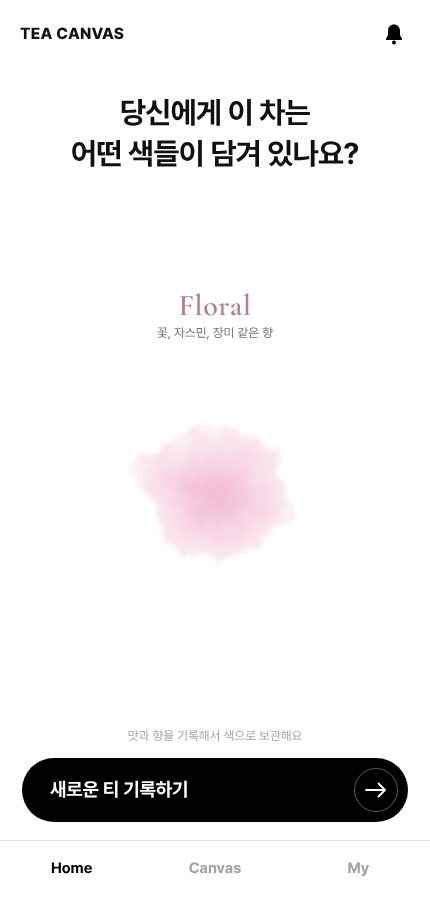
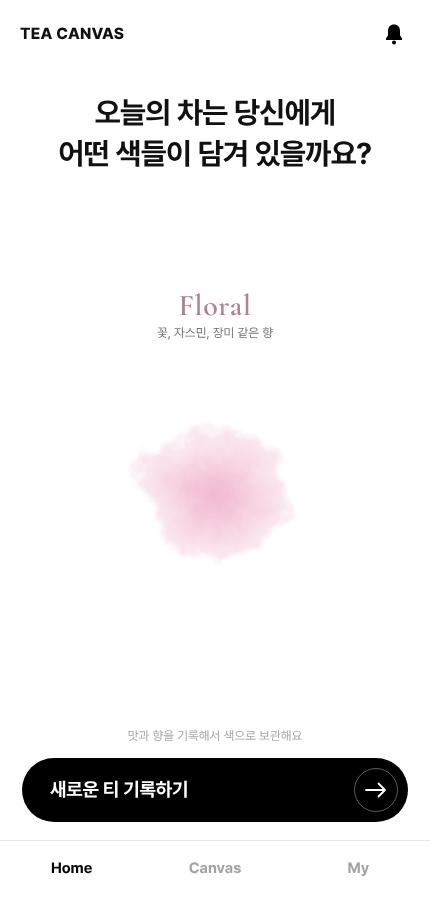
v5 home: new headline copy
Claude-Session: https://claude.ai/code/session_01VYi7RYbVTTHX5Zvyr9oi23

Changed region(s): [[0.1209, 0.0933, 0.8767, 0.1867]]

diff --git a/TEA_CANVAS_prototype_v5.html b/TEA_CANVAS_prototype_v5.html
@@ -1015,7 +1015,7 @@ const SCREENS = {
 
 home(){
   return `<div class="home">
-    <h1 class="home-q ${HQ}">${/split/.test(HQ)?'<em>당신에게 이 차는</em>어떤 색들이 담겨 있나요?':'당신에게 이 차는<br>어떤 색들이 담겨 있나요?'}</h1>
+    <h1 class="home-q ${HQ}">${/split/.test(HQ)?'<em>오늘의 차는 당신에게</em>어떤 색들이 담겨 있을까요?':'오늘의 차는 당신에게<br>어떤 색들이 담겨 있을까요?'}</h1>
     <div class="home-drop" id="homeDrop"></div>
     <p class="home-note">맛과 향을 기록해서 색으로 보관해요</p>
     <button class="bigbtn" onclick="startRecord()"><span>새로운 티 기록하기</span><i>${I.arrow}</i></button>
